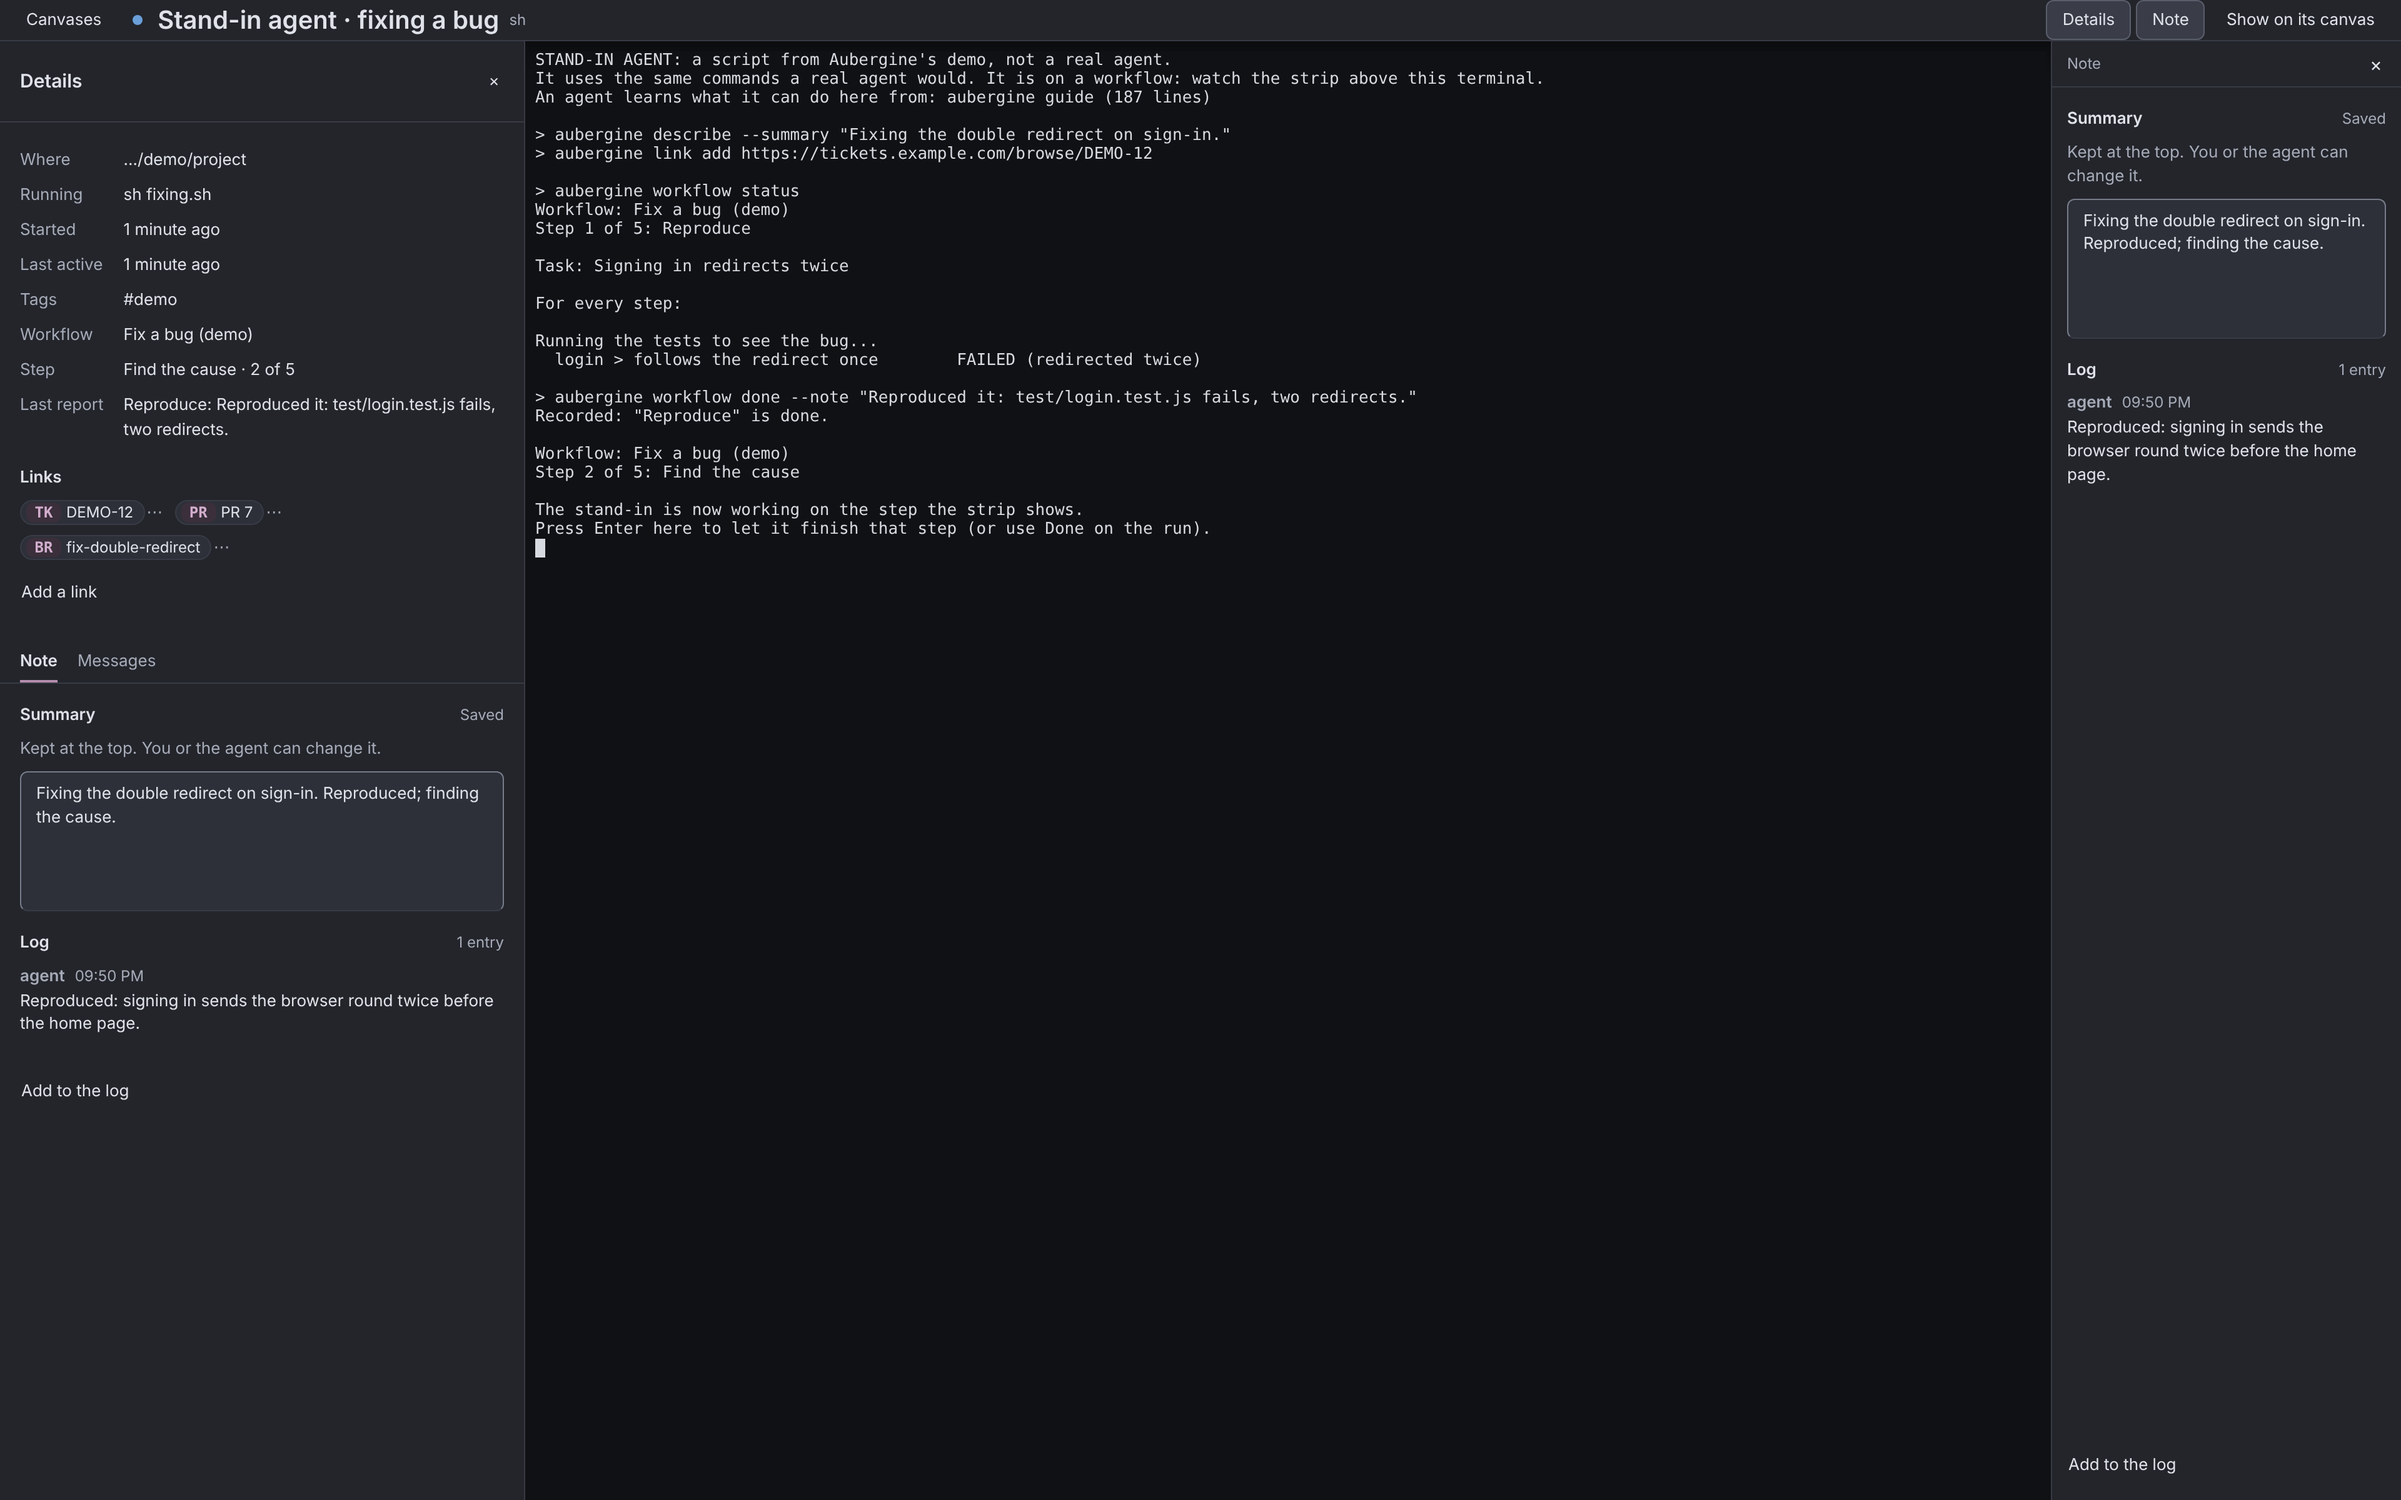
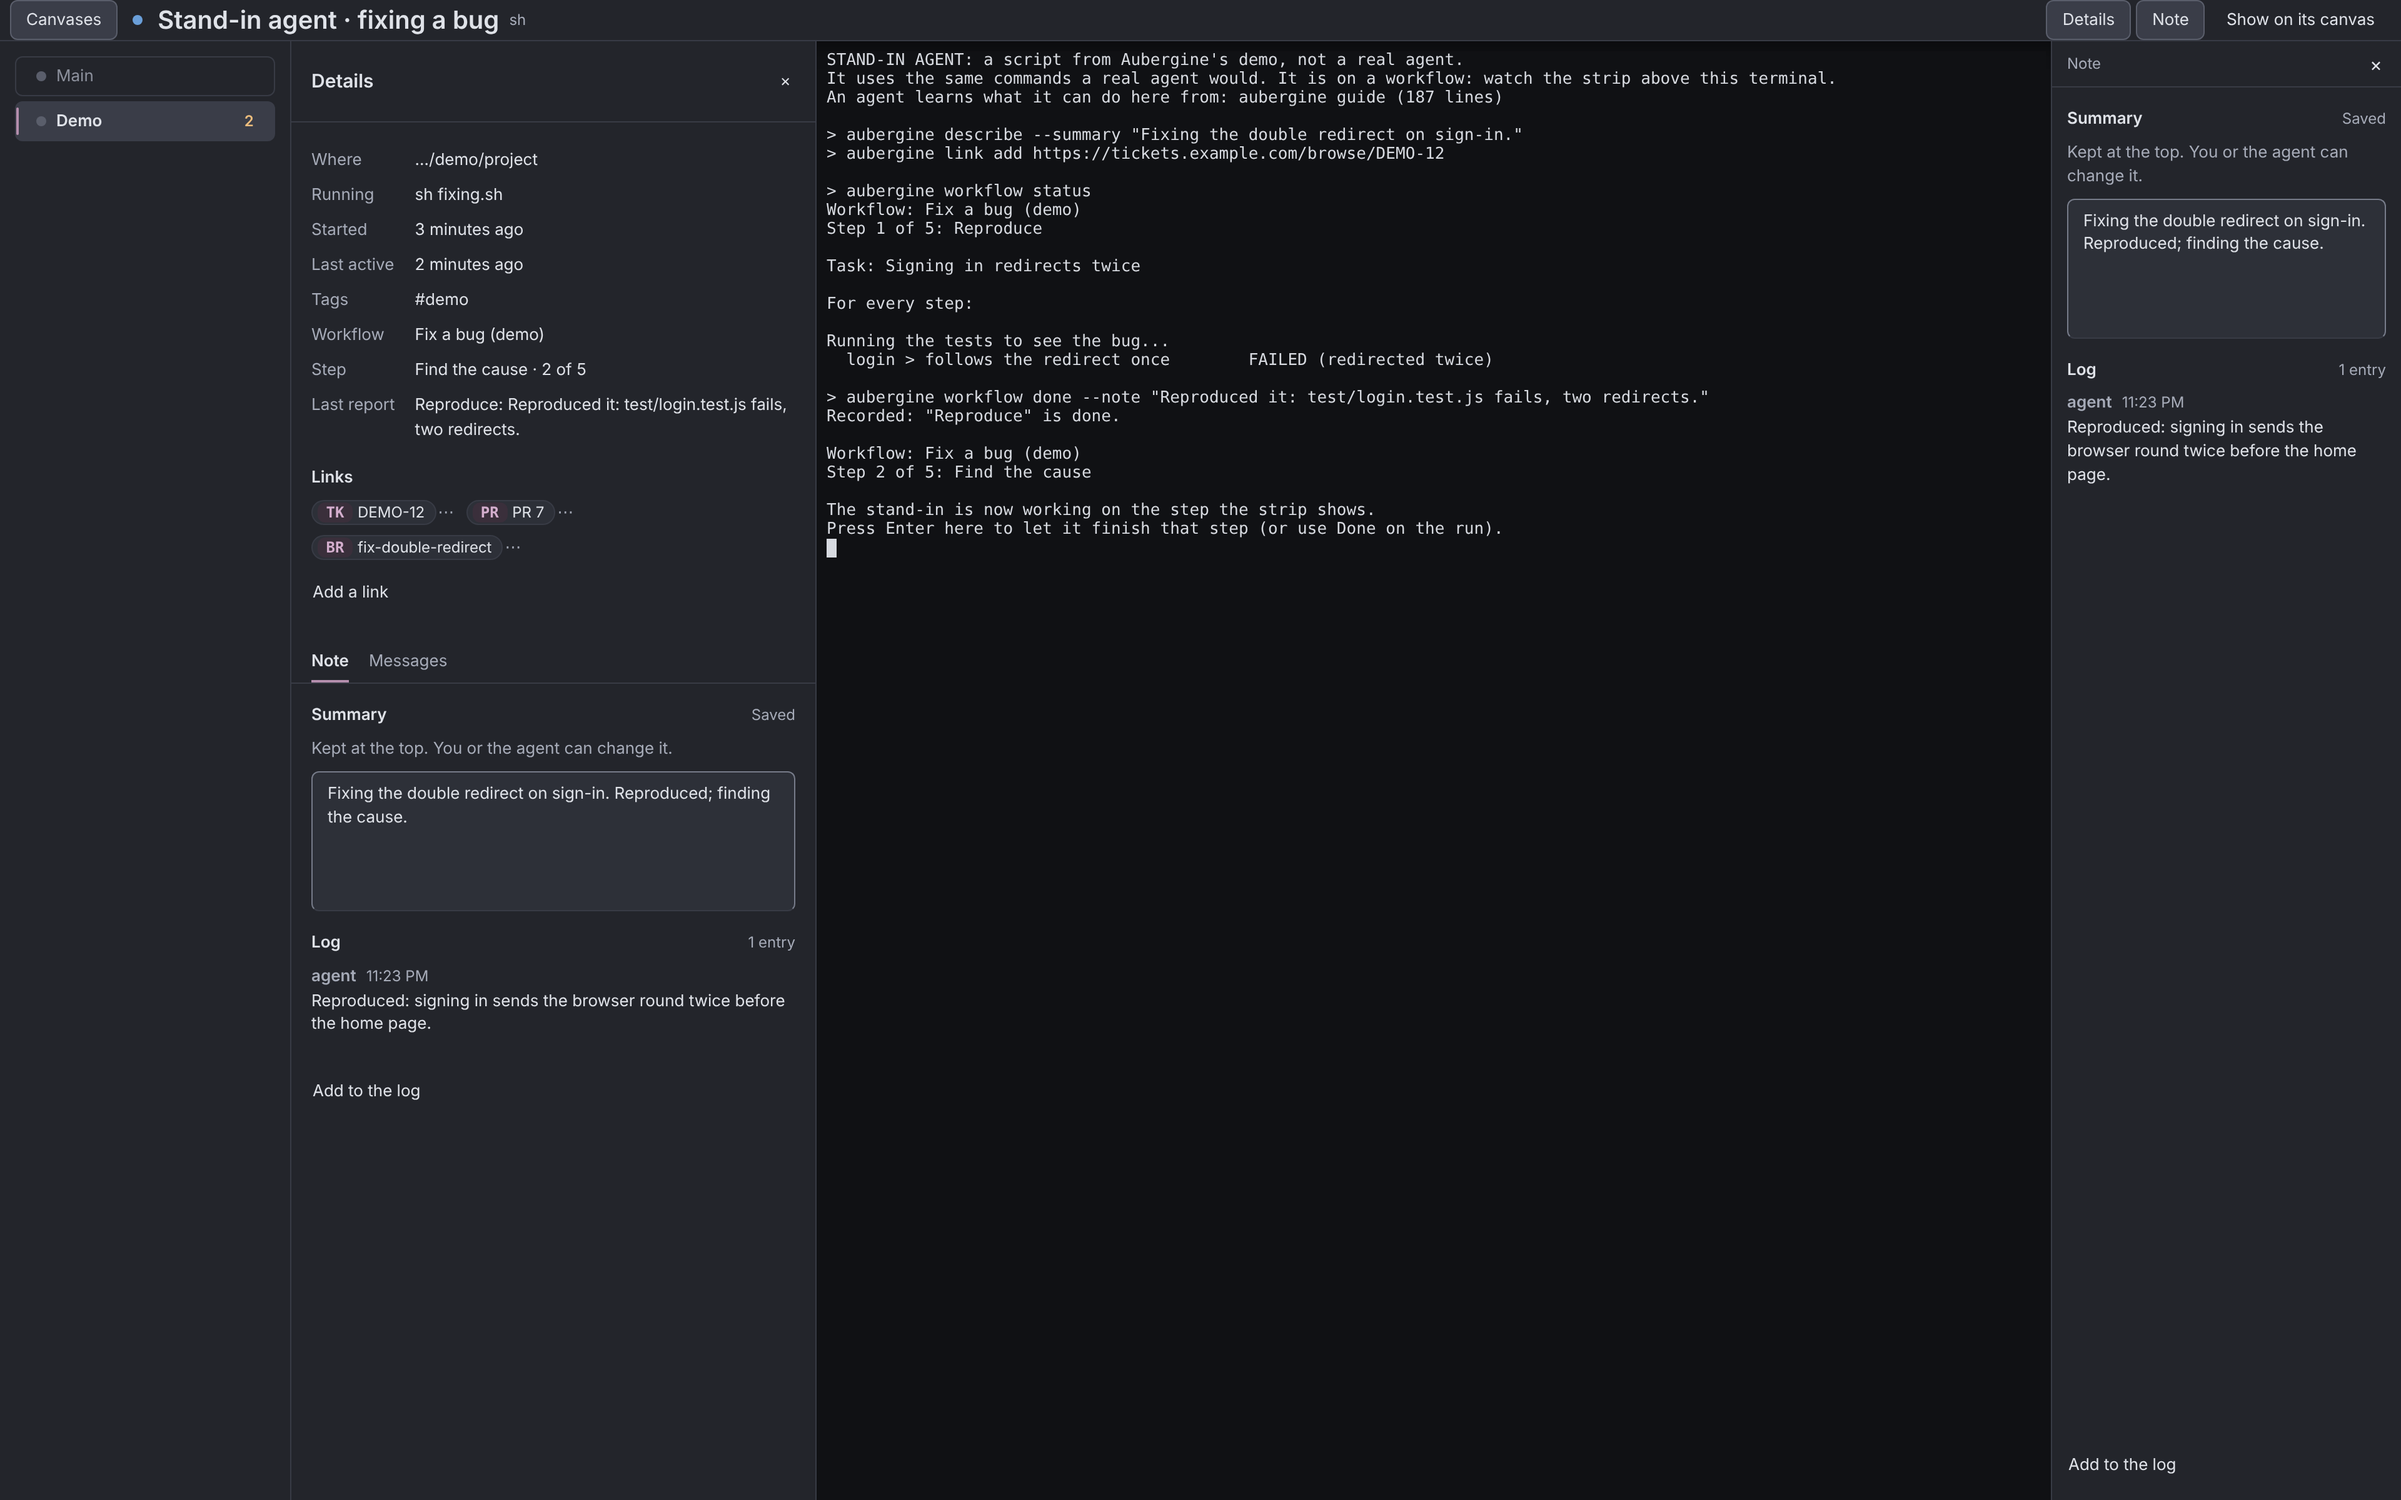
The README and the landing page show the focus view with its columns open and closed
Claude-Session: https://claude.ai/code/session_011jV7PaBDCNMfJDETAJCyU3

diff --git a/site/index.html b/site/index.html
@@ -234,8 +234,8 @@
         <figcaption>Canvases on the left, every terminal in the list with what it is doing, and the terminals themselves, live, each in a color of its own if you like. The one with a question waits for you.</figcaption>
       </figure>
       <figure class="shot">
-        <img src="screenshots/focus.png" width="3840" height="2400" loading="lazy" alt="One terminal by itself in a browser tab: its details on the left with where it runs, its workflow step and its links, the live terminal in the middle, and its note with a summary and a log on the right.">
-        <figcaption>One terminal by itself in a browser tab. Its details and its note open beside it when you ask; the canvases of its project can too.</figcaption>
+        <img src="screenshots/focus.png" width="3840" height="2400" loading="lazy" alt="One terminal by itself in a browser tab with all three columns open: the canvases of its project at the left, its details with where it runs, its workflow step and its links, the live terminal, and its note with a summary and a log at the right.">
+        <figcaption>One terminal by itself in a browser tab. The canvases of its project, its details and its note open beside it when you ask, and each closes again with its button.</figcaption>
       </figure>
     </section>
 

diff --git a/README.md b/README.md
@@ -783,6 +783,13 @@ The list costs nothing to keep open, also with hundreds of terminals: it is draw
 
 A terminal that is running on a canvas can also be open by itself in a browser tab, filling the window: **Tab ↗** in its title beside **Details**, **Open in new browser tab** in the menu (**⋯**) of its title, in its row's menu in the list, or in the palette. Its address is `/t/<terminal>`. We call this the focus view.
 
+| | |
+|---|---|
+| ![The focus view with nothing open beside it: the terminal's name and three buttons in the head, the live terminal filling the window](site/screenshots/focus-closed.png) | ![The focus view with all three columns open: the canvases of its project at the left, its details, the live terminal, its note at the right](site/screenshots/focus.png) |
+| **Just the terminal.** Nothing beside it until you ask. | **Everything open.** Canvases, Details and Note, each opened by its button in the head. |
+
+Each column closes again with the same button in the head; Details and Note also close with the × in their own head.
+
 - **It is the same terminal, not a copy.** Whatever runs in it, an agent too, goes on; what was on its screen is there in the new tab, and what you type in either shows in both.
 - **Closing the tab ends nothing.** The terminal stays on its canvas.
 - **The terminal, and beside it what you ask for.** No canvas and no side panel. The head has three buttons that each open a column: **Canvases** at the left, the canvases of the terminal's project, each a link to that canvas, with the one the terminal is on marked and a number where terminals wait for you; **Details**, the same details as beside the side panel; **Note**, the terminal's note at the right. Each is closed until you press it, and this browser remembers which are open. The terminal takes the room that is left.
